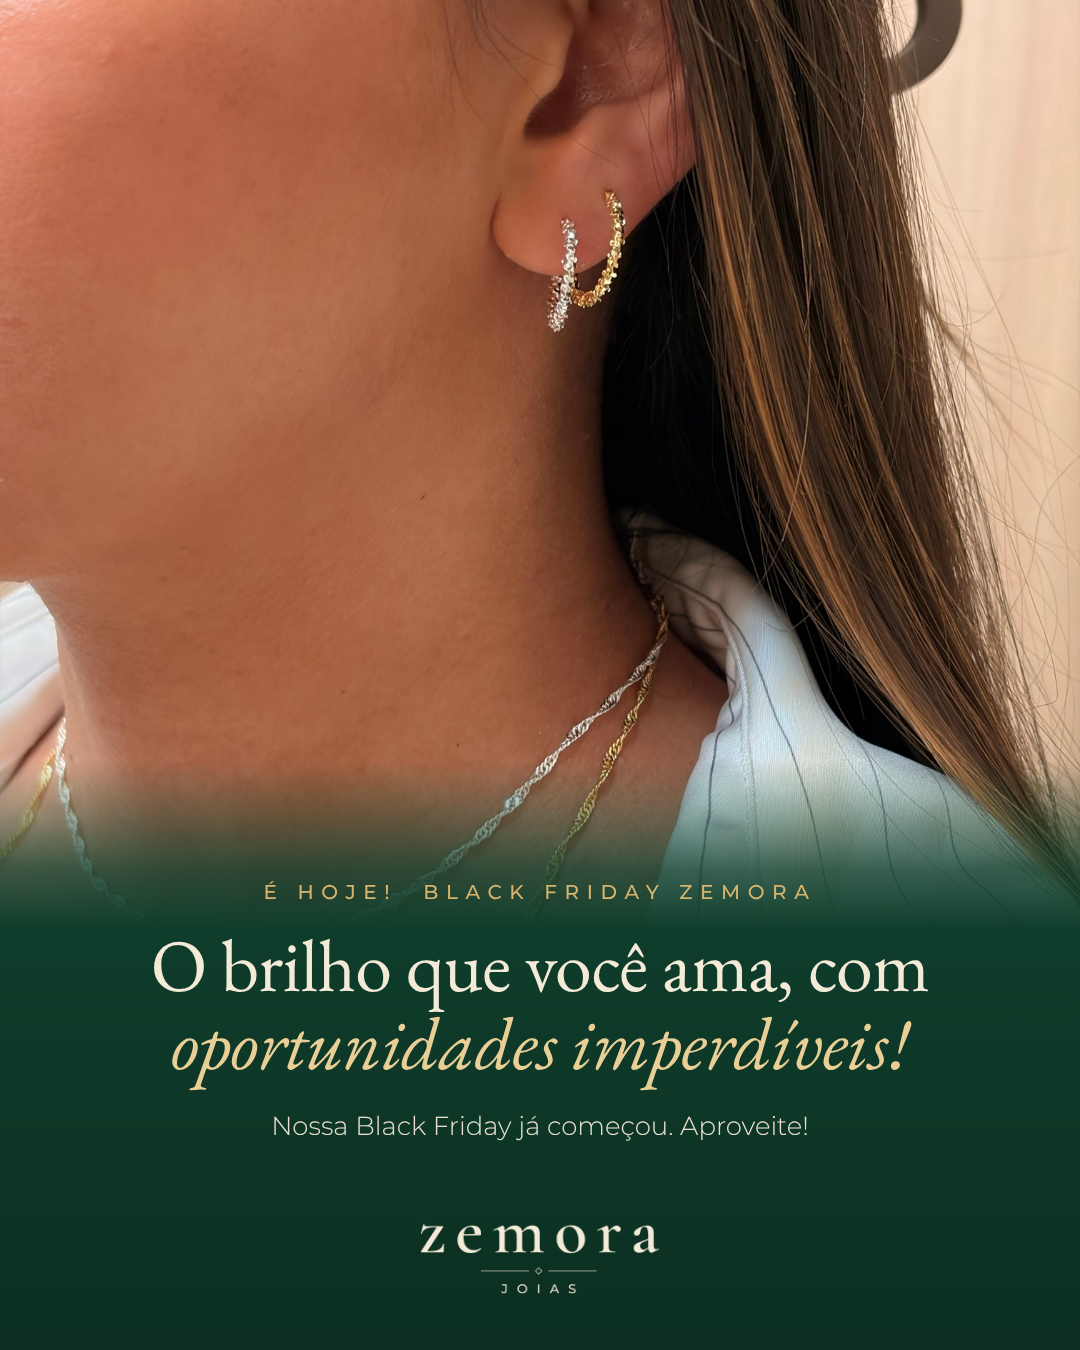
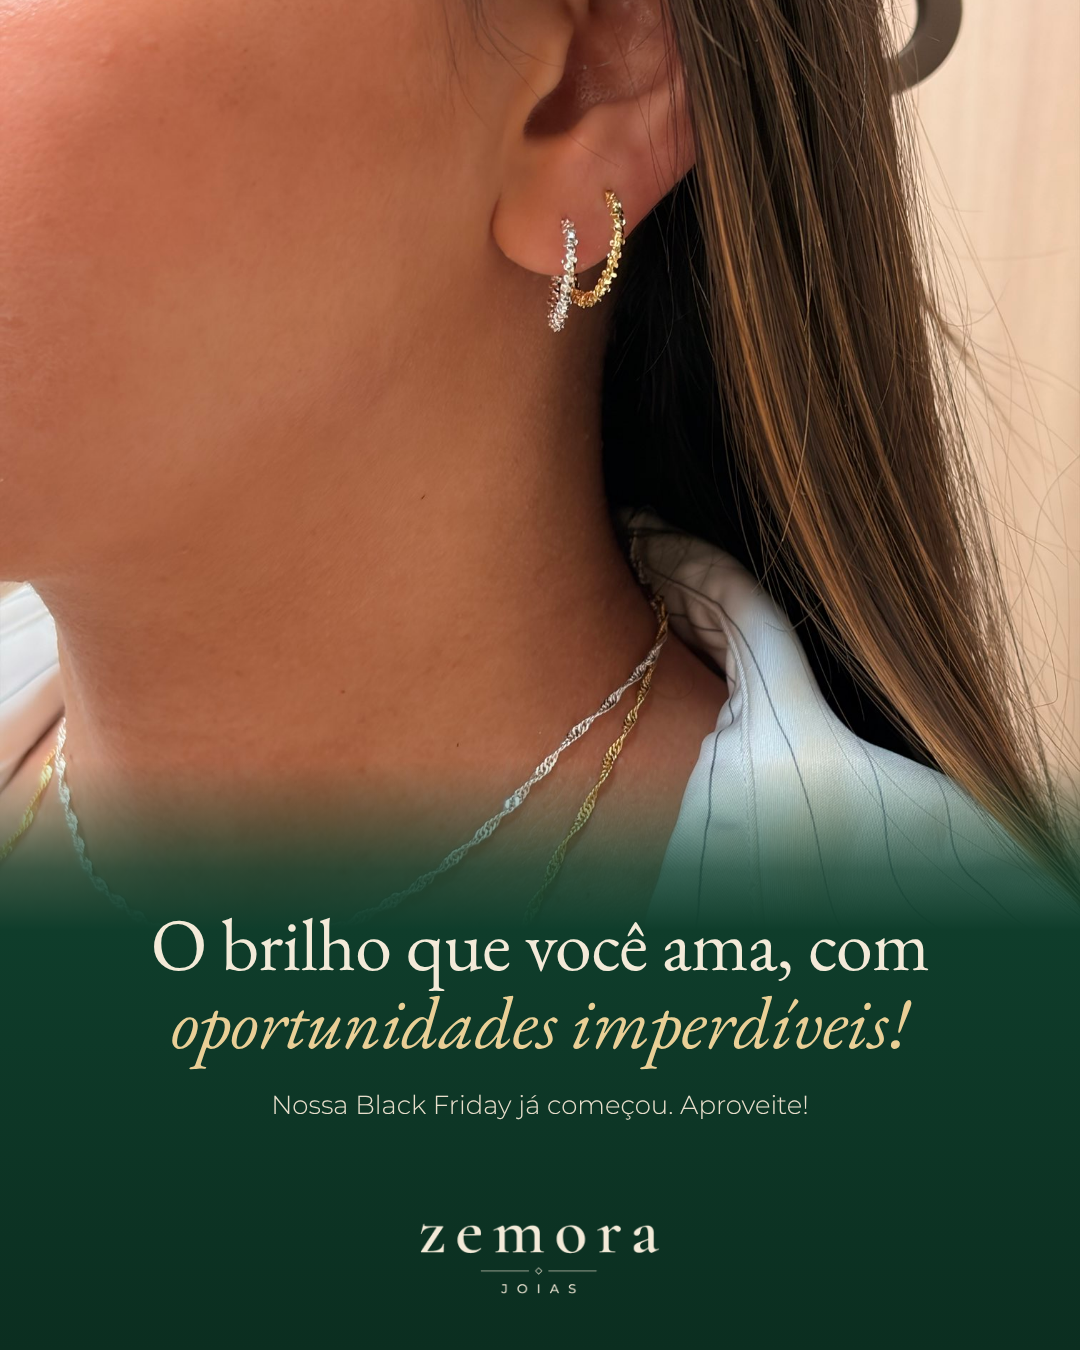
Card Black Friday: remove frase do topo
Claude-Session: https://claude.ai/code/session_01Ds4o6DPNY229NefAqtX4RB

Changed region(s): [[0.1222, 0.6533, 0.8556, 0.84]]

diff --git a/cards/card.html b/cards/card.html
@@ -16,7 +16,7 @@ body{width:1080px;height:1350px;overflow:hidden;background:#0f3d2b}
  background:#0f3d2b;color:#f3ead8;font:500 22px Montserrat;letter-spacing:.32em;padding:16px 34px 16px 40px;white-space:nowrap}
 .badge b{color:#d6b46e;font-weight:500}
 .logo{position:absolute;top:84px;right:64px;text-align:center;color:#f3ead8;z-index:4;display:none}
-.content{position:absolute;top:880px;left:70px;right:70px;text-align:center;color:#f3ead8;z-index:4}
+.content{position:absolute;top:905px;left:70px;right:70px;text-align:center;color:#f3ead8;z-index:4}
 .kick{font:500 20px Montserrat;letter-spacing:.38em;margin-bottom:22px;color:#d6b46e;text-transform:uppercase}
 .rule{display:flex;align-items:center;justify-content:center;gap:18px;margin:0 0 34px}
 .rule i{display:block;width:120px;height:1px;background:rgba(214,180,110,.7)}
@@ -32,7 +32,6 @@ p{font:300 26px/1.5 Montserrat;margin-top:24px;color:#e8dfcc}
 <div class="photo"><img src="FOTO"></div>
 <div class="panel"></div>
 <div class="content">
- <div class="kick">É hoje! &nbsp;Black Friday Zemora</div>
  <h1>O brilho que você ama, com <em>oportunidades imperdíveis!</em></h1>
  <p>Nossa Black Friday já começou. Aproveite!</p>
 </div>
